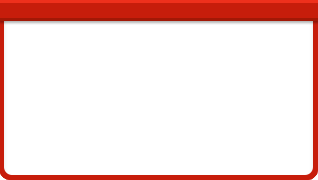
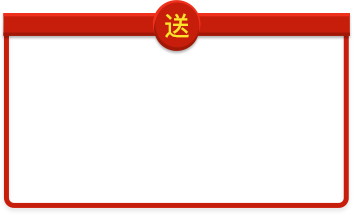
feat

Changed region(s): [[0.0, 0.0, 1.0, 1.0]]

diff --git a/src/pages/activitys/appreciation/componts/posters/index.tsx b/src/pages/activitys/appreciation/componts/posters/index.tsx
@@ -95,7 +95,6 @@ export default connect(({ activity }: any) => activity)(class Posters extends Co
     let bigImg = new Image()      // 创建img对象 最大的背景图片
     let headImg = new Image()     // 店铺头部
     let borderImg = new Image()   // 礼品边框
-    let ballImg = new Image()     // 礼字
     let wxImg = new Image()       // 微信小程序图片
     let JYB_IMG = new Image()     // 拼团兑换券
     let JYB_giftImg = new Image() // 拼团兑换券
@@ -127,7 +126,6 @@ export default connect(({ activity }: any) => activity)(class Posters extends Co
     headImg.src = this.props.details.headImg
     bigImg.src = require("../../../../../assets/new_haibao.png")
     borderImg.src = require("../../../../../assets/kuang.png")
-    ballImg.src = require("../../../../../assets/qiu.png")
     shadowImg.src = require("../../../../../assets/shadow.png")
     outlineImg.src = require("../../../../../assets/outline.png")
 
@@ -159,12 +157,7 @@ export default connect(({ activity }: any) => activity)(class Posters extends Co
     }
 
     borderImg.onload = () => {
-      contents.drawImage(borderImg, 0, 0, 359, 222, 200, 980, 359, 222)
-      contents.save()
-    }
-
-    ballImg.onload = () => {
-      contents.drawImage(ballImg, 0, 0, 359, 222, 335, 970, 359, 222)
+      contents.drawImage(borderImg, 0, 0, 359, 222, 188, 970, 350, 215)
       contents.save()
     }
 
@@ -466,7 +459,7 @@ export default connect(({ activity }: any) => activity)(class Posters extends Co
       }, () => {
         this.controlImgTime2(this.state.canvasLength.length)
       })
-    }, this.state.loadingTime * 500);
+    }, this.state.loadingTime * 1000);
 
   }
 
@@ -479,7 +472,7 @@ export default connect(({ activity }: any) => activity)(class Posters extends Co
           this.controlImgTime(this.state.canvasLength.length)
           if (this.state.loadingTime > 1) history.go(0) // 如果执行了多次，还是无法显示图片 ，刷新当前页面
         })
-      }, this.state.loadingTime * 500);
+      }, this.state.loadingTime * 1000);
     } else {
       this.setState({
         url: this.state.canvasLength

diff --git a/src/models/tabbar.ts b/src/models/tabbar.ts
@@ -34,6 +34,7 @@ const model: Model = {
     history({ dispatch, history }) {
       let url = location.href;
       sessionStorage.setItem('url', url)
+      
       history.listen(() =>
         dispatch({
           type: 'setShow',

diff --git a/src/pages/login/index.tsx b/src/pages/login/index.tsx
@@ -36,6 +36,8 @@ export default connect()(
 			remainingTime: 0
 		};
 		componentDidMount() {
+			// console.log('99999');
+			// localStorage.setItem('QL_poster', 'true')
 			/**获取oss */
 			// request({
 			// 	url: 'api/v2/up',
